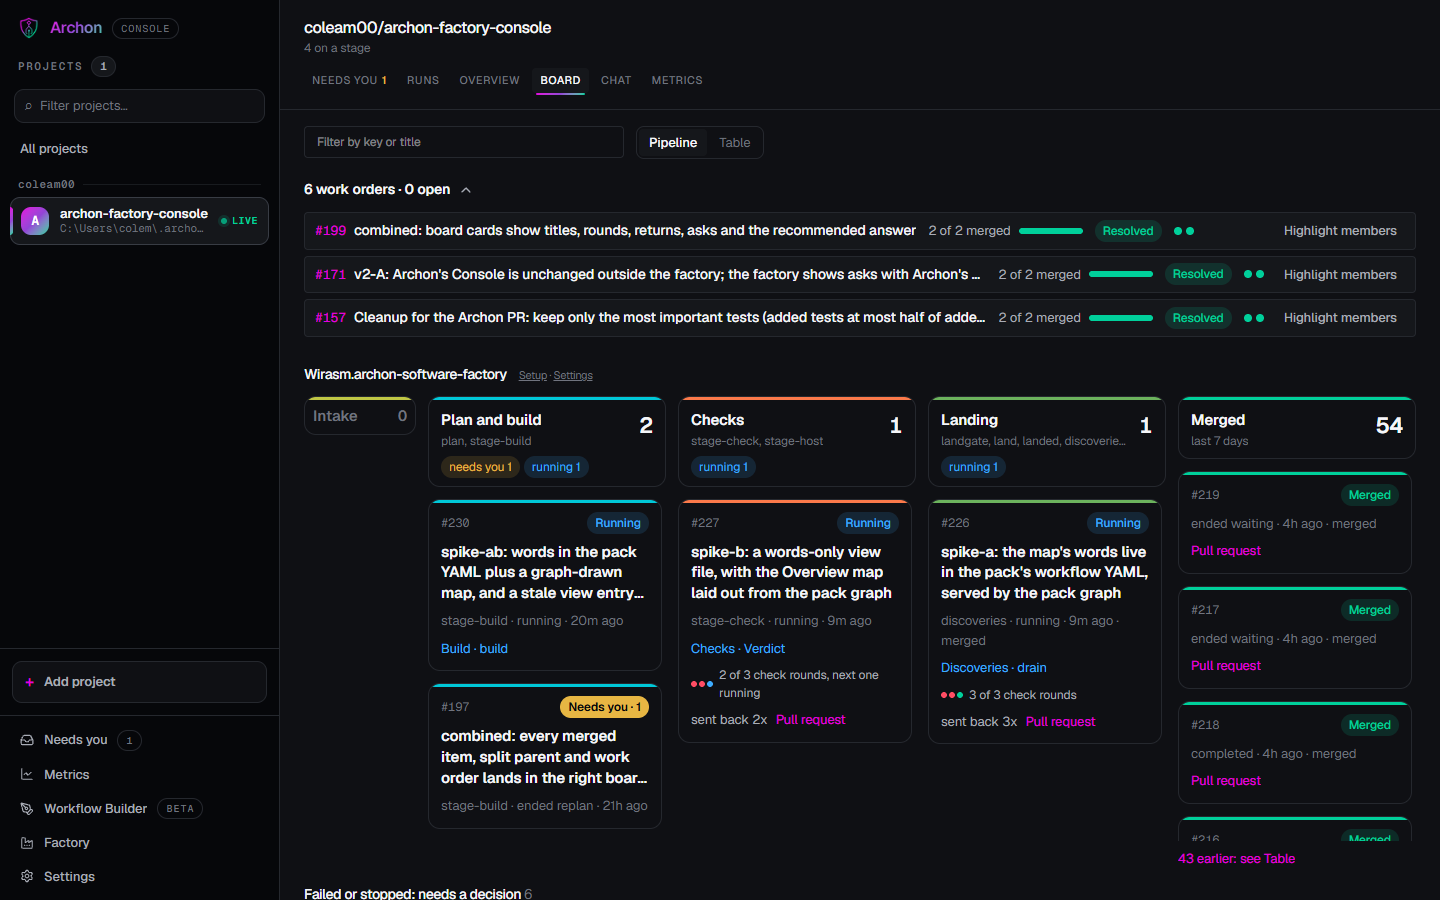
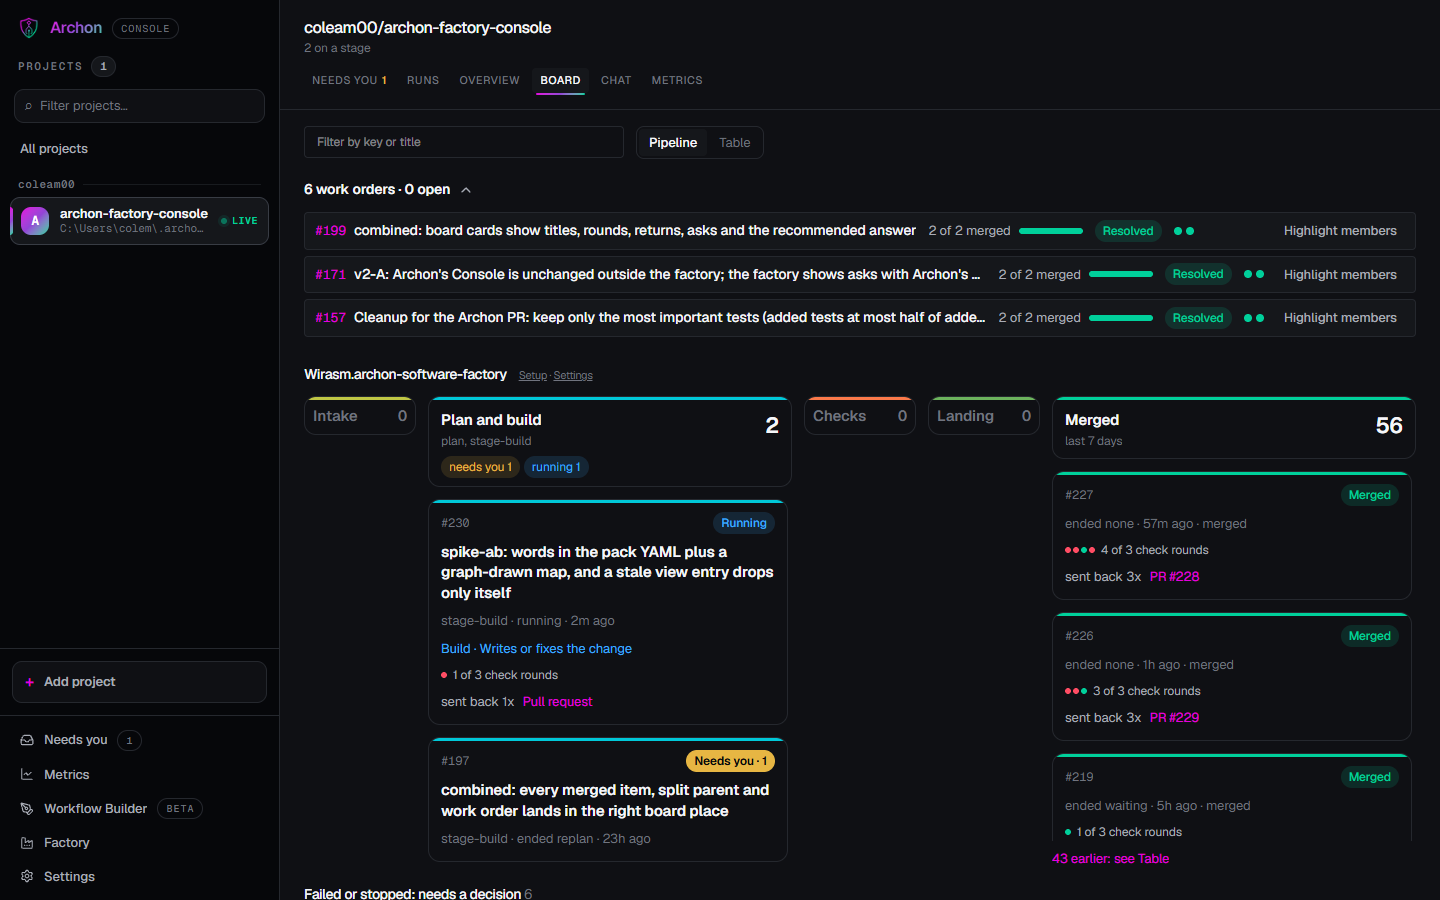
spike-ab: Build's include step reads its YAML word, and the tests guard the modal's outcome stories
The include node refuses display:, so Build's step word goes on the build node of the included
build/build.yaml in the overlay; the graph built from the gate pack plus the overlay now has the
same display words as the web fixture, and the board reads "Build · Writes or fixes the change"
as combined does. The stage-modal test asserts the outcomes list and a display story; the
check:factory-view test asserts paths and severity, not message sentences. Reconciling.problems
goes: nothing read it.

Changed region(s): [[0.6562, 0.4356, 0.9688, 0.9644], [0.2812, 0.4356, 0.625, 0.9644]]

diff --git a/scripts/check-factory-view.test.ts b/scripts/check-factory-view.test.ts
@@ -58,12 +58,14 @@ describe('checkView', () => {
   test('exits 0 on an unknown stage, printing each dropped entry with the other warnings', () => {
     const report = checkView(view('deploy'), graph);
     expect(report.code).toBe(0);
-    expect(report.lines).toEqual([
-      'stages.deploy: [warning] dropped: names stage "deploy", which pack "acme.factory" does not have',
-      'merged: [warning] dropped: names stage "deploy", which pack "acme.factory" does not have',
-      'stages: [warning] stage "make" has no words',
+    // Each line is `path: [severity] message`; which entries drop, and why, is the reconcile's.
+    expect(report.lines.map(entry => entry.split(': [')[0])).toEqual([
+      'stages.deploy',
+      'merged',
+      'stages',
       '0 errors, 3 warnings',
     ]);
+    expect(report.lines.slice(0, -1).every(entry => entry.includes(': [warning] '))).toBe(true);
   });
 
   test('exits 1 on a fault drift cannot cause', () => {

diff --git a/packages/web/src/experiments/console/factory/PackMap.test.tsx b/packages/web/src/experiments/console/factory/PackMap.test.tsx
@@ -195,6 +195,15 @@ describe('the stage modal', () => {
     const page = await mount(CURATED);
     await click(page.querySelector('[data-stage="stage-build"]'));
     expect(dialog().querySelector('h3')?.textContent).toBe('Build');
+    // How a run here ends: every outcome the graph declares, with the story its display: gives.
+    const outcomes = shippedGraph.stages.find(stage => stage.workflow === 'stage-build')?.outcome;
+    const story = outcomes?.values.find(value => typeof value.display?.story === 'string');
+    expect(texts('[data-outcome]', 'data-outcome')).toEqual(
+      outcomes?.values.map(value => value.value) ?? []
+    );
+    expect(dialog().querySelector(`[data-outcome="${story?.value}"]`)?.textContent).toContain(
+      String(story?.display?.story)
+    );
     expect(texts('[data-drilldown-card]', 'data-drilldown-card')).toEqual([
       'Write or fix the change',
       'Count the round',

diff --git a/packages/workflows/src/factory-view-check.ts b/packages/workflows/src/factory-view-check.ts
@@ -36,7 +36,6 @@ export interface Reconciling {
   graph: PackGraph;
   /** Graph stages by `workflow` name, the name the view uses. */
   stages: ReadonlyMap<string, GraphStage>;
-  problems: FactoryViewProblem[];
   /** Records that the entry at `path` left the served view, and why. */
   drop(path: ProblemPath, message: string): void;
   /** Records a fault drift cannot cause: a console refuses the file on it. */
@@ -271,7 +270,6 @@ export function reconcileFactoryView(
     view: structuredClone(view),
     graph,
     stages: new Map(graph.stages.map(stage => [stage.workflow, stage])),
-    problems,
     drop: (path, message) =>
       problems.push({ severity: 'warning', path, message: `dropped: ${message}` }),
     error: (path, message) => problems.push({ severity: 'error', path, message }),

diff --git a/docs/factory-console/pack-view/README.md b/docs/factory-console/pack-view/README.md
@@ -7,11 +7,13 @@ drill-down cards and the story wording the console draws the factory with. Its s
 graph (its document groups and arrows); the file says only which stage items leave it by
 (`merged`).
 
-On `spike-a`, a stage's label, short line and blurb, its steps' labels and its outcomes' labels
+On `spike-a` and `spike-ab`, a stage's label, short line and blurb, its steps' labels and its outcomes' labels
 and stories live in the pack's workflow YAML (`display:`), and the console reads them from the
 pack graph before this file (`packages/web/src/experiments/console/factory/lib/graph-words.ts`).
 The pack at b62ec7b carries no `display:` yet: `../pack-spike/` holds its changed workflow files
-at their pack-relative paths. Copy that folder over the installed pack directory, then this file
+at their pack-relative paths. A step inside an `include:` takes its words in the included
+workflow's YAML, not on the include node (the loader refuses `display:` there), so Build's step
+word lives in `build/build.yaml`. Copy that folder over the installed pack directory, then this file
 into its `.shared/`, to get the spiked pack. Without the overlay the console still draws, with
 step ids and stage names where the words were, and `check:factory-view` warns that each stage
 has no words.

diff --git a/docs/factory-console/ENGINEERING.md b/docs/factory-console/ENGINEERING.md
@@ -52,7 +52,7 @@ The factory building this repository runs Archon from another checkout, on the h
   the copy of the pack the graph was read from (`packages/core/src/workflows/pack-view.ts`) and
   served by `GET /api/packs/{pack}/view`. It is presentation only: words, drill-down cards,
   story wording, the How it works picture, which stage items leave the map by (`merged`) (on
-  `spike-a`, the words a workflow can carry in its `display:` come from the pack graph first,
+  `spike-a` and `spike-ab`, the words a workflow can carry in its `display:` come from the pack graph first,
   `factory/lib/graph-words.ts`, and the file holds the rest), and where a console finds an item's check rounds, returns and change
   in its runs' records (`retired`, `rounds`, `returns`, `approves`, `change`, in
   `factory-view-progress.ts`; operator ruling of 2026-11-25, declare-in-view). The engine reads
